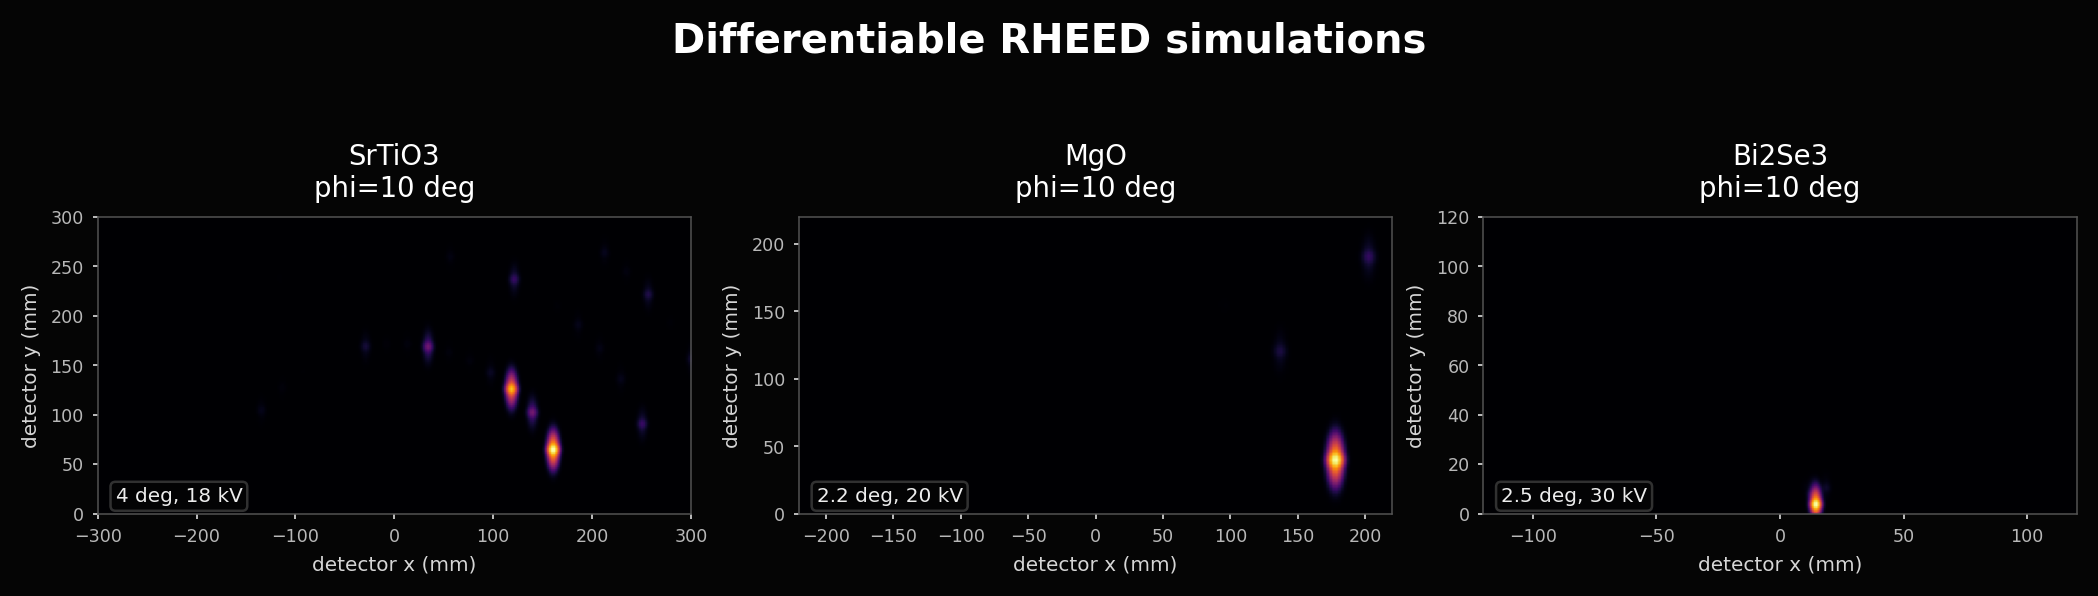
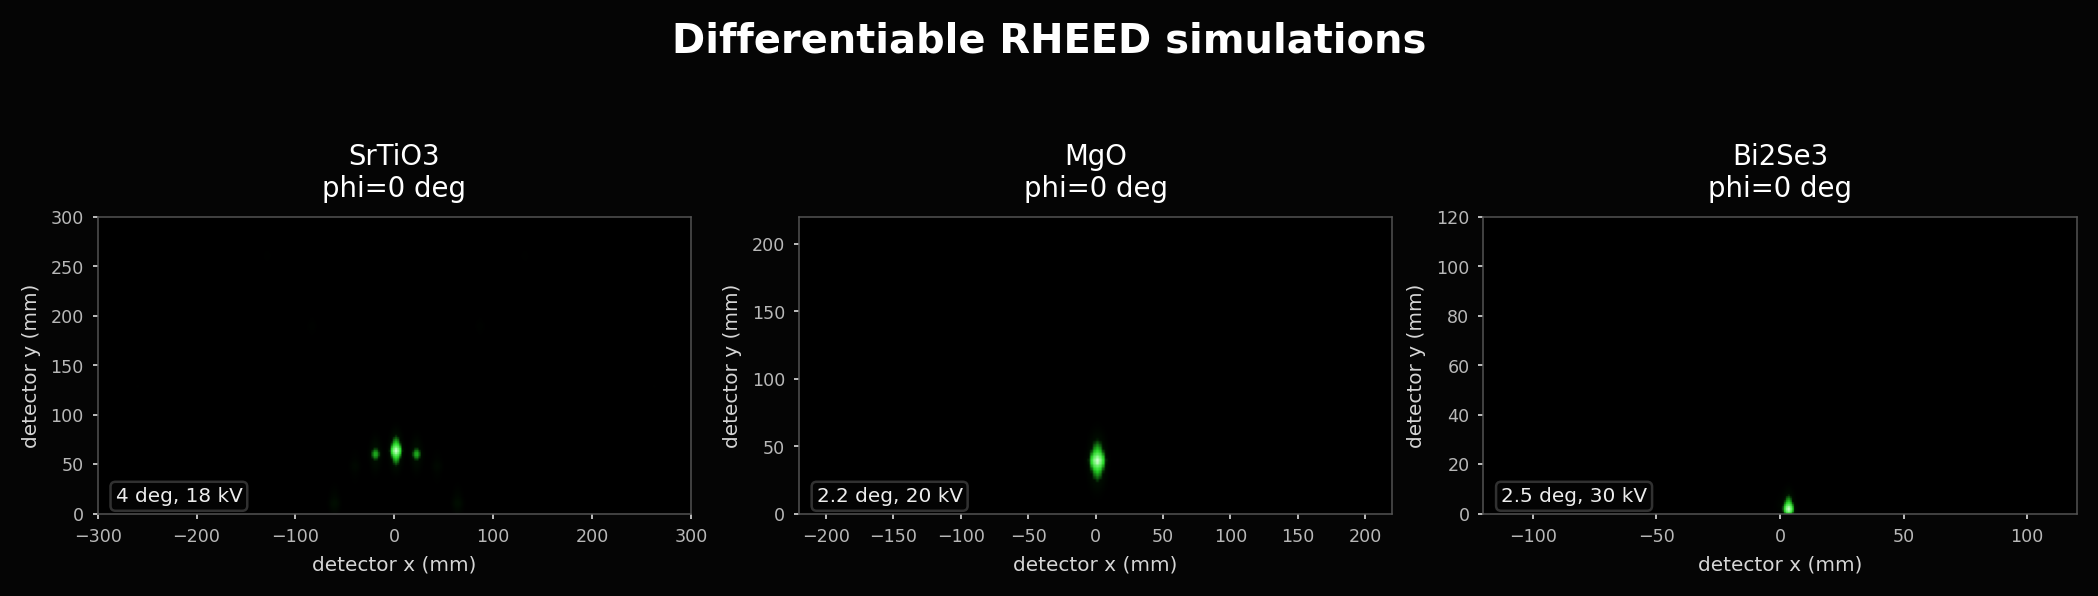
centered images

diff --git a/tests/test_rheedium/test_physics_anchors.py b/tests/test_rheedium/test_physics_anchors.py
@@ -1575,3 +1575,110 @@ def test_occupancy_weighting_survives_ewald_rod_paths() -> None:
         0.25 * np.asarray(rod_full)[rod_mask],
         rtol=1e-12,
     )
+
+
+def _zone_axis_pattern_points(
+    lengths: tuple[float, float, float],
+    angles: tuple[float, float, float],
+) -> np.ndarray:
+    """Simulate a phi=0 pattern for a two-atom cell; return visible points."""
+    cell = np.asarray(build_cell_vectors(*lengths, *angles))
+    frac = np.array([[0.0, 0.0, 0.0], [0.3, 0.2, 0.1]])
+    cart = frac @ cell
+    z_numbers = np.array([14.0, 8.0])
+    crystal = create_crystal_structure(
+        frac_positions=jnp.asarray(np.column_stack([frac, z_numbers])),
+        cart_positions=jnp.asarray(np.column_stack([cart, z_numbers])),
+        cell_lengths=jnp.asarray(lengths),
+        cell_angles=jnp.asarray(angles),
+    )
+    from rheedium.simul import ewald_simulator
+
+    pattern = ewald_simulator(
+        crystal=crystal,
+        energy_kev=30.0,
+        theta_deg=2.5,
+        phi_deg=0.0,
+        hmax=3,
+        kmax=3,
+        detector_distance=80.0,
+        temperature=300.0,
+        surface_roughness=0.0,
+        layer_attenuation=0.01,
+        ctr_power=1.0,
+        roughness_power=1.0,
+    )
+    points = np.asarray(pattern.detector_points)
+    valid = np.asarray(pattern.G_indices) >= 0
+    return points[valid]
+
+
+def test_rheed_zone_axis_mirror_symmetry() -> None:
+    r"""Rod positions obey the surface-net mirror at a low-index zone axis.
+
+    Extended Summary
+    ----------------
+    The left-right mirror of a RHEED pattern is the reflection
+    (Gx, Gy) -> (Gx, -Gy) across the incidence plane, so streak positions
+    pair up exactly when the 2D surface net has a mirror line along the
+    beam azimuth: square/rectangular nets (gamma = 90) and the hexagonal
+    net (gamma = 120, beam along a). A rectangular Miller-index box is not
+    closed under that mirror for non-orthogonal cells (the mirror of
+    (h, k) is (h, -h-k) for the hexagonal net), which silently sheared
+    hexagonal patterns until the rod sample was restricted to an isotropic
+    |G_par| disk. This anchors: (a) hexagonal and cubic patterns are 100%
+    mirror-paired with a symmetric transverse range and a centered
+    specular rod; (b) for an oblique net (gamma = 80, point group 2 with
+    no mirror line) every rod whose mirrored G_par is a genuine lattice
+    vector still has its visible partner, so any residual asymmetry is
+    crystallographic, never a sampling artifact.
+
+    Notes
+    -----
+    It builds synthetic two-atom cells inside the test body and compares
+    the simulated detector positions against the closed-form mirror
+    operation and the reciprocal-basis integrality test, with no
+    reference to rheedium's own sampling arithmetic.
+
+    :see: :func:`~rheedium.simul.ewald_simulator`
+    """
+    for lengths, angles in (
+        ((4.0, 4.0, 6.0), (90.0, 90.0, 120.0)),
+        ((4.0, 4.0, 4.0), (90.0, 90.0, 90.0)),
+    ):
+        pts = _zone_axis_pattern_points(lengths, angles)
+        hx, vy = pts[:, 0], pts[:, 1]
+        for i in range(len(pts)):
+            has_partner = np.any(
+                (np.abs(hx + hx[i]) < 1e-6) & (np.abs(vy - vy[i]) < 1e-6)
+            )
+            assert has_partner, (angles, pts[i])
+        assert np.min(np.abs(hx)) < 1e-9
+        np.testing.assert_allclose(hx.min(), -hx.max(), atol=1e-9)
+
+    oblique_lengths = (4.0, 4.0, 4.0)
+    oblique_angles = (80.0, 80.0, 80.0)
+    pts = _zone_axis_pattern_points(oblique_lengths, oblique_angles)
+    hx, vy = pts[:, 0], pts[:, 1]
+    recip = np.asarray(
+        reciprocal_lattice_vectors(
+            *oblique_lengths, *oblique_angles, in_degrees=True
+        )
+    )
+    basis_2d = np.stack([recip[0][:2], recip[1][:2]], axis=1)
+    lattice_valid_mirrors = 0
+    for h in range(-3, 4):
+        for k in range(-3, 4):
+            g_par = basis_2d @ np.array([float(h), float(k)])
+            mirrored_hk = np.linalg.solve(
+                basis_2d, np.array([g_par[0], -g_par[1]])
+            )
+            if np.allclose(mirrored_hk, np.round(mirrored_hk), atol=1e-9):
+                lattice_valid_mirrors += 1
+    assert 0 < lattice_valid_mirrors < 49
+    paired = sum(
+        bool(np.any((np.abs(hx + hx[i]) < 1e-6) & (np.abs(vy - vy[i]) < 1e-6)))
+        for i in range(len(pts))
+    )
+    assert paired < len(pts)
+    assert np.min(np.abs(hx)) < 1e-9

diff --git a/src/rheedium/simul/simulator.py b/src/rheedium/simul/simulator.py
@@ -439,6 +439,69 @@ def find_kinematic_reflections(
 
 
 @jaxtyped(typechecker=beartype)
+def _isotropic_rod_mask(
+    h_flat: Int[Array, "N"],
+    k_flat: Int[Array, "N"],
+    recip_a: Float[Array, "3"],
+    recip_b: Float[Array, "3"],
+    hmax: int,
+    kmax: int,
+) -> Float[Array, "N"]:
+    r"""Mask rectangular-box rods to the inscribed isotropic disk.
+
+    A rectangular Miller-index box ``h, k in [-hmax, hmax] x [-kmax, kmax]``
+    maps to a parallelogram in reciprocal space. For non-orthogonal in-plane
+    reciprocal bases the parallelogram is not closed under the surface-net
+    point group, so a mirror-related rod pair can straddle the boundary and
+    the sampled rod set silently breaks the mirror symmetry of the pattern
+    (Friedel-violating streak positions for hexagonal cells at a zone axis).
+    Restricting the sample to the inscribed disk
+    :math:`|G_\parallel| \le G_{max}` fixes this for every lattice: point
+    group operations preserve :math:`|G_\parallel|`, so an isotropic cutoff
+    is closed under all of them by construction.
+
+    ``G_max`` is the inscribed radius of the sampled parallelogram — the
+    minimum distance from the origin to its boundary lines — so no rod
+    outside the requested box is ever needed.
+
+    Parameters
+    ----------
+    h_flat, k_flat : Int[Array, "N"]
+        Flattened Miller indices of the candidate rods.
+    recip_a, recip_b : Float[Array, "3"]
+        In-plane reciprocal lattice vectors in 1/Å.
+    hmax, kmax : int
+        Requested box half-widths.
+
+    Returns
+    -------
+    Float[Array, "N"]
+        1.0 for rods inside the inscribed disk, 0.0 outside.
+    """
+    a_xy: Float[Array, "2"] = recip_a[:2]
+    b_xy: Float[Array, "2"] = recip_b[:2]
+    a_norm: Float[Array, ""] = jnp.linalg.norm(a_xy)
+    b_norm: Float[Array, ""] = jnp.linalg.norm(b_xy)
+    a_hat: Float[Array, "2"] = a_xy / jnp.maximum(a_norm, 1e-12)
+    b_hat: Float[Array, "2"] = b_xy / jnp.maximum(b_norm, 1e-12)
+    # Distance from origin to the boundary lines h = +/-hmax (spanned by
+    # b*) and k = +/-kmax (spanned by a*): the perpendicular component of
+    # the stepped vector with respect to the spanning direction.
+    a_perp: Float[Array, ""] = jnp.linalg.norm(
+        a_xy - jnp.dot(a_xy, b_hat) * b_hat
+    )
+    b_perp: Float[Array, ""] = jnp.linalg.norm(
+        b_xy - jnp.dot(b_xy, a_hat) * a_hat
+    )
+    g_max: Float[Array, ""] = jnp.minimum(hmax * a_perp, kmax * b_perp)
+    g_par: Float[Array, "N 2"] = (
+        h_flat[:, None] * a_xy[None, :] + k_flat[:, None] * b_xy[None, :]
+    )
+    g_par_norm: Float[Array, "N"] = jnp.linalg.norm(g_par, axis=-1)
+    return (g_par_norm <= g_max * (1.0 + 1e-9)).astype(jnp.float64)
+
+
+@jaxtyped(typechecker=beartype)
 def compute_kinematic_intensities_with_ctrs(  # noqa: PLR0913, PLR0915
     crystal: CrystalStructure,
     g_allowed: Float[Array, "N 3"],
@@ -893,6 +956,13 @@ def ewald_simulator(  # noqa: PLR0913, PLR0915
     k_out_all: Float[Array, "N 2 3"]
     valid_all: Float[Array, "N 2"]
     l_all, k_out_all, valid_all = jax.vmap(_find_intersection)(rod_indices)
+    # Restrict the rectangular Miller box to its inscribed isotropic disk so
+    # the sampled rod set is closed under the surface-net point group (the
+    # box alone breaks mirror symmetry for non-orthogonal cells).
+    rod_mask: Float[Array, "N"] = _isotropic_rod_mask(
+        h_flat, k_flat, recip_a, recip_b, hmax_int, kmax_int
+    )
+    valid_all = valid_all * rod_mask[:, None]
     l_all = l_all.reshape(-1)
     k_out_all = k_out_all.reshape(-1, 3)
     valid_all = valid_all.reshape(-1)
@@ -1085,6 +1155,13 @@ def _ewald_amplitude_pattern(  # noqa: PLR0913, PLR0915
     k_out_all: Float[Array, "N 2 3"]
     valid_all: Float[Array, "N 2"]
     l_all, k_out_all, valid_all = jax.vmap(_find_intersection)(rod_indices)
+    # Same inscribed-disk restriction as ewald_simulator (see
+    # _isotropic_rod_mask): keeps the rod sample closed under the
+    # surface-net point group for non-orthogonal cells.
+    rod_mask: Float[Array, "N"] = _isotropic_rod_mask(
+        h_flat, k_flat, recip_a, recip_b, hmax_int, kmax_int
+    )
+    valid_all = valid_all * rod_mask[:, None]
     l_all = l_all.reshape(-1)
     k_out_all = k_out_all.reshape(-1, 3)
     valid_all = valid_all.reshape(-1)

diff --git a/tutorials/sweeps/generate_bi2se3_sweeps.py b/tutorials/sweeps/generate_bi2se3_sweeps.py
@@ -139,20 +139,57 @@ def _compute_dynamic_range_floor(crystal, settings):
     return settings["dynamic_range_scale"] * faintest
 
 
+def _reindex_to_mirror_azimuth(crystal):
+    """Re-index the hexagonal cell so the beam (phi=0, along a') runs
+    along <1-100>, the sigma-plane trace of R-3m.
+
+    Along <11-20> (the a axis) the R-centering rule -h+k+l = 3n places
+    Bragg maxima at different l on mirror-related rods, so the pattern
+    intensities are genuinely 3-fold asymmetric (the well-known trigonal
+    asymmetry of Bi2Se3). Along <1-100> the structural mirror makes the
+    pattern exactly left-right symmetric. The new primitive cell is
+    a' = a1 - a2 (|a'| = sqrt(3) a along <1-100>), b' = a2, c' = c
+    (det = 1), so fractional coordinates map as (f1, f1 + f2, f3).
+    """
+    a_len = float(crystal.cell_lengths[0])
+    c_len = float(crystal.cell_lengths[2])
+    frac = np.asarray(crystal.frac_positions)
+    coords, z_numbers = frac[:, :3], frac[:, 3:]
+    new_coords = np.column_stack(
+        [
+            coords[:, 0],
+            (coords[:, 0] + coords[:, 1]) % 1.0,
+            coords[:, 2],
+        ]
+    )
+    lengths = (np.sqrt(3.0) * a_len, a_len, c_len)
+    angles = (90.0, 90.0, 150.0)
+    cell = np.asarray(rh.ucell.build_cell_vectors(*lengths, *angles))
+    new_cart = new_coords @ cell
+    return rh.types.create_crystal_structure(
+        frac_positions=jnp.asarray(np.column_stack([new_coords, z_numbers])),
+        cart_positions=jnp.asarray(np.column_stack([new_cart, z_numbers])),
+        cell_lengths=jnp.asarray(lengths),
+        cell_angles=jnp.asarray(angles),
+    )
+
+
 def main() -> None:
     repo_root = Path(__file__).resolve().parents[2]
     sweeps_dir = repo_root / "tutorials" / "sweeps"
     sweeps_dir.mkdir(parents=True, exist_ok=True)
-    crystal = rh.inout.parse_cif(
-        repo_root / "tests" / "test_data" / "bi2se3" / "Bi2Se3.cif"
+    crystal = _reindex_to_mirror_azimuth(
+        rh.inout.parse_cif(
+            repo_root / "tests" / "test_data" / "bi2se3" / "Bi2Se3.cif"
+        )
     )
     settings = {
         "material": "Bi2Se3",
         "energy_kev": 30.0,
         "theta_deg": 2.5,
         "phi_deg": 0.0,
-        "hmax": 3,
-        "kmax": 3,
+        "hmax": 8,
+        "kmax": 8,
         "detector_distance_mm": 80.0,
         "temperature": 300.0,
         "surface_roughness": 0.0,

diff --git a/tests/test_rheedium/test_simul/test_simulator.py b/tests/test_rheedium/test_simul/test_simulator.py
@@ -3430,12 +3430,32 @@ class TestEwaldSimulator(chex.TestCase, parameterized.TestCase):
             dtype=np.float64,
         )
         k_mag_sq: Any = float(np.dot(k_in, k_in))
+        # Mirror the production inscribed-disk rod cutoff: the rectangular
+        # Miller box is not closed under the surface-net point group for
+        # non-orthogonal cells, so rods are restricted to |G_par| <= G_max.
+        a_xy: Float[NDArray, "..."] = np.asarray(recip_a[:2])
+        b_xy: Float[NDArray, "..."] = np.asarray(recip_b[:2])
+        a_hat: Float[NDArray, "..."] = a_xy / max(
+            float(np.linalg.norm(a_xy)), 1e-12
+        )
+        b_hat: Float[NDArray, "..."] = b_xy / max(
+            float(np.linalg.norm(b_xy)), 1e-12
+        )
+        a_perp: float = float(
+            np.linalg.norm(a_xy - np.dot(a_xy, b_hat) * b_hat)
+        )
+        b_perp: float = float(
+            np.linalg.norm(b_xy - np.dot(b_xy, a_hat) * a_hat)
+        )
+        g_max: float = min(hmax * a_perp, kmax * b_perp) * (1.0 + 1e-9)
         rows: list[tuple[float, float]] = []
         h: int
         for h in range(-hmax, hmax + 1):
             k: int
             for k in range(-kmax, kmax + 1):
                 g_hk: Any = h * recip_a + k * recip_b
+                if float(np.linalg.norm(g_hk[:2])) > g_max:
+                    continue
                 p_vec: Any = k_in + g_hk
                 a_coef: Any = float(np.dot(recip_c, recip_c))
                 b_coef: Any = float(2.0 * np.dot(p_vec, recip_c))

diff --git a/docs/export_readme_figures.py b/docs/export_readme_figures.py
@@ -17,6 +17,8 @@ from numpy.typing import NDArray
 matplotlib.use("Agg")
 import matplotlib.pyplot as plt  # noqa: E402
 
+from rheedium.plots import create_phosphor_colormap  # noqa: E402
+
 
 PROJECT_ROOT: Final[Path] = Path(__file__).resolve().parents[1]
 SWEEP_DIR: Final[Path] = PROJECT_ROOT / "tutorials" / "sweeps"
@@ -48,13 +50,16 @@ class RenderedPanel:
     parameter_unit: str
     parameter_value: float
     theta_deg: float
-    voltage_kv: float
+    energy_kev: float
 
 
 README_PANELS: Final[tuple[SweepPanel, ...]] = (
-    SweepPanel("SrTiO3", "sto_theta4_phi_sweep.npz", 2),
-    SweepPanel("MgO", "mgo_theta2p2_phi_sweep.npz", 2),
-    SweepPanel("Bi2Se3", "bi2se3_theta2p5_phi_sweep.npz", 2),
+    # Frame 0 is phi = 0 deg (a symmetry azimuth), so the streaks are
+    # mirror-symmetric about the specular rod. Off-axis frames (e.g. phi = 10
+    # deg) are physically asymmetric and read poorly as a hero image.
+    SweepPanel("SrTiO3", "sto_theta4_phi_sweep.npz", 0),
+    SweepPanel("MgO", "mgo_theta2p2_phi_sweep.npz", 0),
+    SweepPanel("Bi2Se3", "bi2se3_theta2p5_phi_sweep.npz", 0),
 )
 
 
@@ -148,7 +153,7 @@ def _load_panel(panel: SweepPanel) -> RenderedPanel:
             parameter_unit=parameter_unit,
             parameter_value=float(parameter_values[panel.frame_index]),
             theta_deg=_load_float_scalar(data, "theta_deg"),
-            voltage_kv=_load_float_scalar(data, "voltage_kv"),
+            energy_kev=_load_float_scalar(data, "energy_kev"),
         )
         return rendered
     finally:
@@ -185,7 +190,7 @@ def export_readme_gallery(output_path: Path = README_GALLERY) -> Path:
             parameter_value = f"{parameter_value} {panel.parameter_unit}"
         image_artist: AxesImage = axis.imshow(
             panel.image,
-            cmap="inferno",
+            cmap=create_phosphor_colormap(),
             extent=panel.extent_mm,
             origin="lower",
             vmin=0.0,
@@ -213,7 +218,7 @@ def export_readme_gallery(output_path: Path = README_GALLERY) -> Path:
         axis.text(
             0.03,
             0.04,
-            f"{panel.theta_deg:g} deg, {panel.voltage_kv:g} kV",
+            f"{panel.theta_deg:g} deg, {panel.energy_kev:g} keV",
             color="#ededed",
             fontsize=8,
             transform=axis.transAxes,

diff --git a/src/rheedium/types/rheed_types.py b/src/rheedium/types/rheed_types.py
@@ -230,9 +230,15 @@ def create_rheed_pattern(
             jnp.any(~jnp.isfinite(k_out)),
             "k_out contains non-finite values",
         )
+        # Padded reflections (g_indices == -1) carry exactly-zero k_out by
+        # contract (see find_ctr_ewald_intersection); only genuine
+        # reflections must have non-zero wavevectors.
         checked_k_out = eqx.error_if(
             checked_k_out,
-            jnp.any(jnp.linalg.norm(checked_k_out, axis=1) <= 0),
+            jnp.any(
+                (jnp.linalg.norm(checked_k_out, axis=1) <= 0)
+                & (g_indices >= 0)
+            ),
             "k_out vectors must be non-zero",
         )
         checked_detector_points: Float[Array, "mm 2"] = eqx.error_if(

diff --git a/tests/test_rheedium/test_simul/test_reflection_multislice.py b/tests/test_rheedium/test_simul/test_reflection_multislice.py
@@ -759,7 +759,7 @@ class TestReflectionMultislice(chex.TestCase, parameterized.TestCase):
             energy_kev=30.0,
             theta_deg=2.5,
             phi_deg=0.0,
-            hmax=4,
+            hmax=12,
             kmax=12,
             detector_distance=80.0,
         )